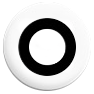
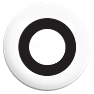
изменён цвет null.png

Changed region(s): [[0.1915, 0.1915, 0.8085, 0.8085]]

diff --git a/bots/TicTacToe/hello world-6.js b/bots/TicTacToe/hello world-6.js
@@ -1,0 +1,19 @@
+var step = -1;
+function makeMove(field, side) {
+    step++;
+    if (step == 0) {
+        return [0, 0];
+    }
+    if (step == 1) {
+        return [1, 0];
+    }
+    if (step == 2) {
+        return [0, 1];
+    }
+    if (step == 3) {
+        return [1, 2];
+    }
+    if (step == 4) {
+        return [2, 2];
+    }
+}
